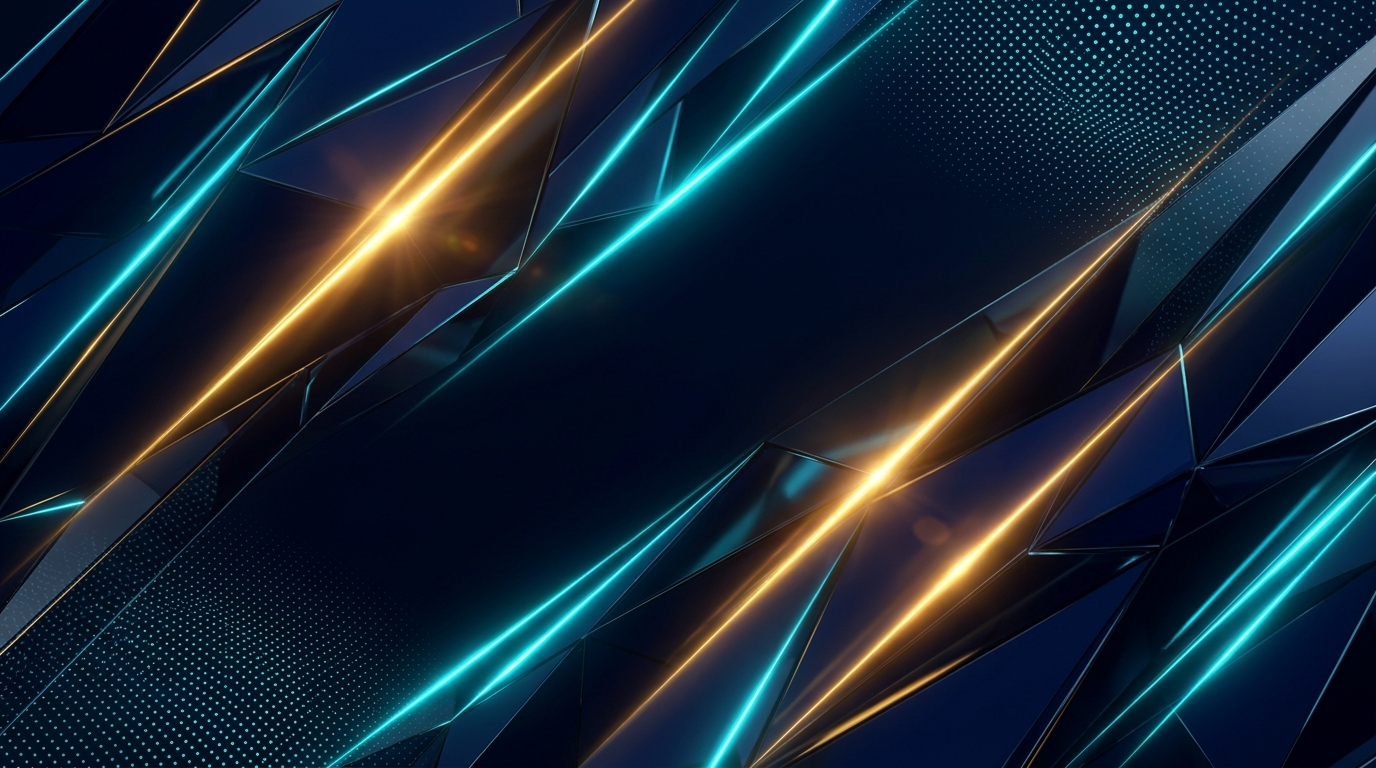
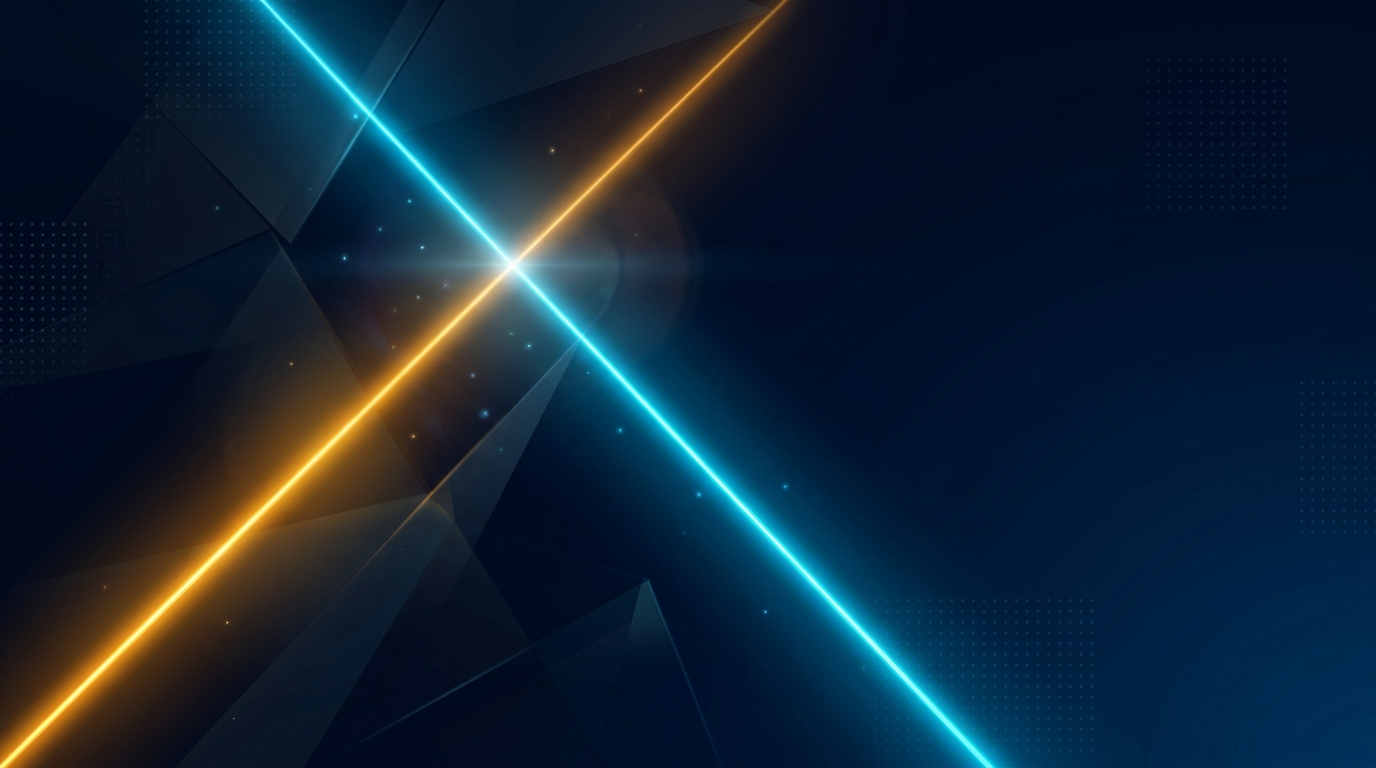
style(auth): align login UI to 100% match high-end corporate reference mockup

diff --git a/resources/views/auth/login.blade.php b/resources/views/auth/login.blade.php
@@ -94,21 +94,43 @@
         <!-- ========================================== -->
         <div class="w-full lg:w-[54%] flex flex-col justify-center space-y-6 sm:space-y-7 text-left">
             
-            <!-- A. Lambang Resmi 3D "S" SIGMA Master Brand Mark (Opsi 1: Murni, Elegan & Anti-Tabrakan) -->
+            <!-- A. Logo Lockup Resmi SIGMA PROJECTS (Emblem 3D + Divider + Teks Resmi Vektor) -->
             <div class="relative inline-flex items-center group">
-                <!-- Soft ambient halo glow di belakang emblem S agar terpisah sempurna dari garis laser background -->
-                <div class="absolute -inset-6 bg-gradient-to-r from-blue-900/70 via-cyan-900/50 to-transparent rounded-full blur-2xl pointer-events-none"></div>
-                
-                <img src="{{ asset('images/sigma-emblem-clean.png') }}" 
-                     alt="SIGMA PROJECTS" 
-                     class="relative h-20 sm:h-24 lg:h-28 w-auto object-contain drop-shadow-[0_16px_36px_rgba(0,180,255,0.45)] group-hover:scale-105 transition-transform duration-300"
-                     onerror="this.onerror=null; this.src='{{ asset('logo-icon.png') }}'">
+                <div class="inline-flex items-center gap-3 sm:gap-4.5">
+                    <!-- Lambang 3D "S" SIGMA Master Mark -->
+                    <img src="{{ asset('images/sigma-emblem-clean.png') }}" 
+                         alt="SIGMA Projects" 
+                         class="h-16 sm:h-20 lg:h-22 w-auto object-contain drop-shadow-[0_12px_32px_rgba(0,180,255,0.5)] group-hover:scale-105 transition-transform duration-300">
+                    
+                    <!-- Golden Angled Divider Line -->
+                    <div class="h-14 sm:h-16 w-[2.5px] bg-gradient-to-b from-transparent via-[#f59e0b] to-transparent transform -skew-x-12 opacity-95 shadow-[0_0_10px_rgba(245,158,11,0.7)]"></div>
+
+                    <!-- Teks Resmi SIGMA PROJECTS (Crisp Vector Typography) -->
+                    <div class="flex flex-col justify-center select-none pt-0.5">
+                        <div class="text-3xl sm:text-4xl lg:text-[44px] font-black text-white tracking-[0.06em] flex items-center leading-none font-sans drop-shadow-[0_2px_10px_rgba(0,0,0,0.8)]">
+                            <span>SIGM</span>
+                            <span class="relative inline-flex items-center justify-center">
+                                <span>A</span>
+                                <!-- Aksen Segitiga Emas Khas SIGMA di Huruf A -->
+                                <span class="absolute inset-x-0 bottom-[14%] flex justify-center pointer-events-none">
+                                    <span class="w-0 h-0 border-l-[4px] border-r-[4px] border-b-[8px] sm:border-l-[5.5px] sm:border-r-[5.5px] sm:border-b-[11px] border-l-transparent border-r-transparent border-b-[#f59e0b] drop-shadow-[0_0_6px_rgba(245,158,11,0.9)]"></span>
+                                </span>
+                            </span>
+                        </div>
+                        
+                        <div class="flex items-center justify-between text-[10px] sm:text-[11.5px] font-black text-[#f59e0b] tracking-[0.34em] uppercase mt-1.5 drop-shadow-[0_0_6px_rgba(245,158,11,0.5)]">
+                            <span class="w-5 sm:w-7 h-[2px] bg-gradient-to-r from-transparent to-[#f59e0b] rounded-full"></span>
+                            <span class="px-1.5 font-bold">PROJECTS</span>
+                            <span class="w-5 sm:w-7 h-[2px] bg-gradient-to-l from-transparent to-[#f59e0b] rounded-full"></span>
+                        </div>
+                    </div>
+                </div>
             </div>
 
             <!-- B & C. Judul Utama & Slogan -->
             <div class="space-y-2.5">
-                <h1 class="text-3xl sm:text-5xl lg:text-[54px] font-black tracking-tight text-white leading-[1.1]">
-                    SIGMA <span class="text-[#00e5ff] drop-shadow-[0_0_25px_rgba(0,229,255,0.55)]">ERP &amp; POS</span>
+                <h1 class="text-3xl sm:text-5xl lg:text-[56px] font-black tracking-tight text-white leading-[1.08]">
+                    SIGMA <span class="text-[#00e5ff] drop-shadow-[0_0_28px_rgba(0,229,255,0.65)]">ERP &amp; POS</span>
                 </h1>
                 
                 <p class="text-lg sm:text-2xl font-bold text-white tracking-tight flex items-center gap-2">
@@ -116,8 +138,8 @@
                 </p>
 
                 <!-- D. Garis Aksen Horizontal Cyan dengan Highlight Emas -->
-                <div class="pt-1">
-                    <div class="h-1.5 w-44 rounded-full bg-gradient-to-r from-[#00e5ff] via-[#38bdf8] to-[#f59e0b] shadow-[0_0_14px_rgba(0,229,255,0.8)]"></div>
+                <div class="pt-1.5">
+                    <div class="h-1.5 w-48 rounded-full bg-gradient-to-r from-[#00e5ff] via-[#38bdf8] to-[#f59e0b] shadow-[0_0_16px_rgba(0,229,255,0.85)]"></div>
                 </div>
 
                 <!-- E. Deskripsi -->
@@ -180,11 +202,12 @@
             <div class="bg-white rounded-[32px] p-7 sm:p-9 lg:p-10 shadow-[0_25px_70px_rgba(0,18,60,0.65)] border border-slate-100 ring-8 ring-blue-500/10 w-full max-w-[460px] text-slate-900 relative">
                 
                 <!-- A. Ikon Pengguna Dalam Lingkaran Biru -->
-                <div class="flex justify-center mb-3">
-                    <div class="w-20 h-20 rounded-full bg-gradient-to-b from-[#e0f2fe] to-[#bae6fd] p-1.5 shadow-md shadow-blue-500/20 flex items-center justify-center">
-                        <div class="w-full h-full rounded-full bg-gradient-to-tr from-[#0066ff] to-[#00d2ff] flex items-center justify-center text-white shadow-inner">
-                            <svg class="w-8 h-8" fill="none" stroke="currentColor" viewBox="0 0 24 24">
-                                <path stroke-linecap="round" stroke-linejoin="round" stroke-width="2.2" d="M12 4.354a4 4 0 110 5.292M15 21H3v-1a6 6 0 0112 0v1zm0 0h6v-1a6 6 0 00-9-5.197M13 7a4 4 0 11-8 0 4 4 0 018 0z" />
+                <div class="flex justify-center mb-3.5">
+                    <div class="w-20 h-20 rounded-full bg-gradient-to-b from-[#e0f2fe] to-[#bae6fd] p-1.5 shadow-lg shadow-blue-500/25 flex items-center justify-center ring-4 ring-blue-100/60">
+                        <div class="w-full h-full rounded-full bg-gradient-to-tr from-[#0066ff] via-[#0088ff] to-[#00d2ff] flex items-center justify-center text-white shadow-inner">
+                            <svg class="w-9 h-9" fill="currentColor" viewBox="0 0 24 24">
+                                <path d="M12 12c2.21 0 4-1.79 4-4s-1.79-4-4-4-4 1.79-4 4 1.79 4 4 4zm0 2c-2.67 0-8 1.34-8 4v2h16v-2c0-2.66-5.33-4-8-4z"/>
+                                <path d="M18 10c1.66 0 3-1.34 3-3s-1.34-3-3-3c-.35 0-.68.06-.99.17 1.23.95 2.01 2.45 2.01 4.14s-.78 3.19-2.01 4.14c.31.11.64.17.99.17zm1.5 4.5c.98.63 1.5 1.5 1.5 2.5v2h3v-2c0-1.63-2.67-2.68-4.5-2.5z" opacity="0.8"/>
                             </svg>
                         </div>
                     </div>
@@ -334,8 +357,6 @@
         <!-- Hak Cipta & Info Keamanan (Identitas Resmi SIGMA PROJECTION) -->
         <div class="flex items-center gap-2 text-center sm:text-left">
             <span>&copy; {{ date('Y') }} SIGMA PROJECTION</span>
-            <span class="text-slate-600 hidden sm:inline">&bull;</span>
-            <span class="text-slate-400 hidden sm:inline">Didukung Keamanan Enkripsi Tingkat Tinggi</span>
         </div>
 
         <!-- Status Koneksi & Support -->
